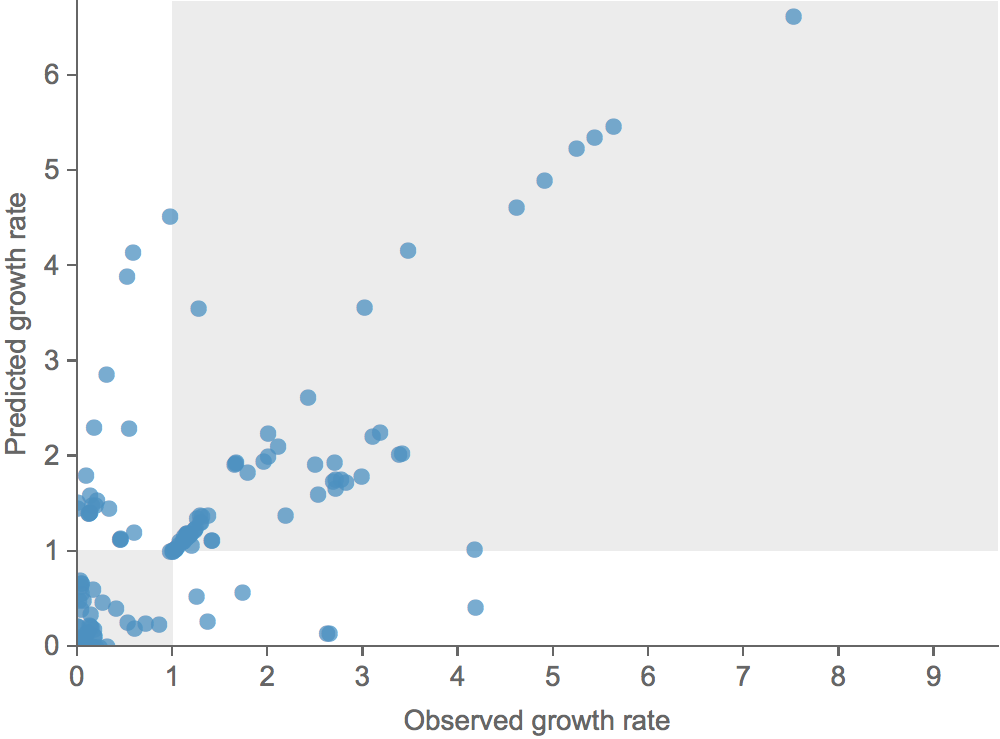
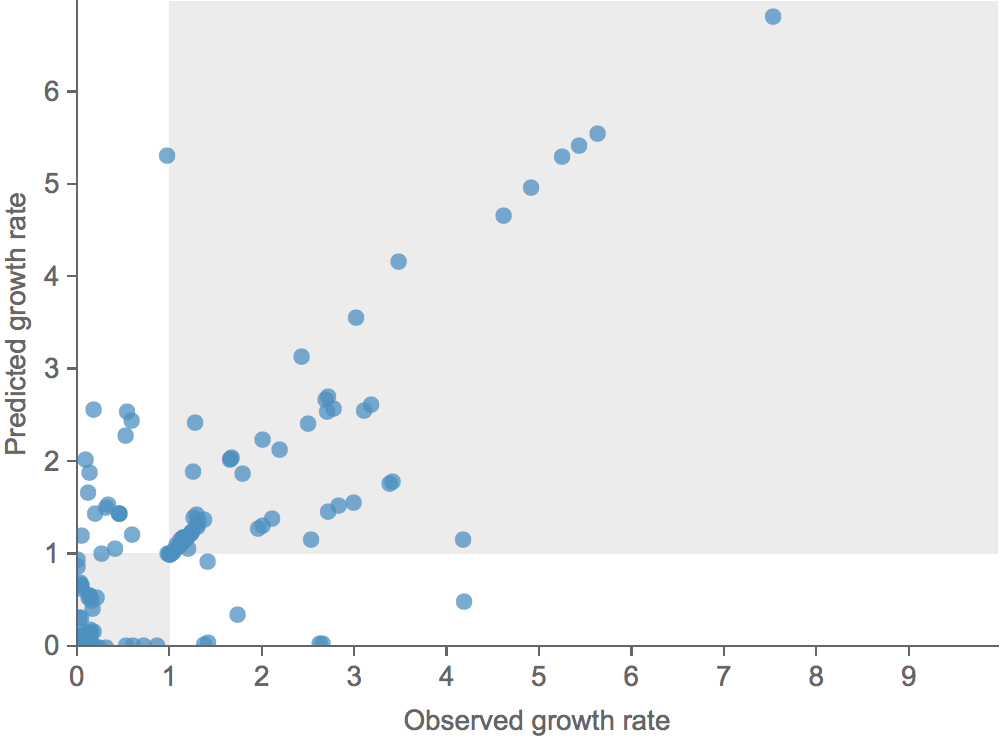
Update WHO talk.

diff --git a/talks/_posts/2015-11-20-real-time-forecasting-who.html b/talks/_posts/2015-11-20-real-time-forecasting-who.html
@@ -153,7 +153,7 @@ draft: true
 </section>
 
 <section>
-	<h3>Correct in 79% of cases</h3>
+	<h3>Correct in 81% of cases</h3>
 	<img class="stretch" src="/images/talks/prediction_validation_growth_rates_window.png">
 </section>
 
@@ -172,7 +172,7 @@ draft: true
 	<ol>	
 		<li>Integrate data predictors and data sources, e.g. plan to investigate a geographic predictor</li>
 		<li>Possible to build predictive models for H1N1 and B and to forecast NA evolution</li>
-		<li>Open sharing of sequence data well supported in GISAID, open sharing of HI data would improve models</li>
+		<li>Open sharing of sequence data well supported in GISAID, sharing of HI data would improve models</li>
 	</ol>
 </section>
 
